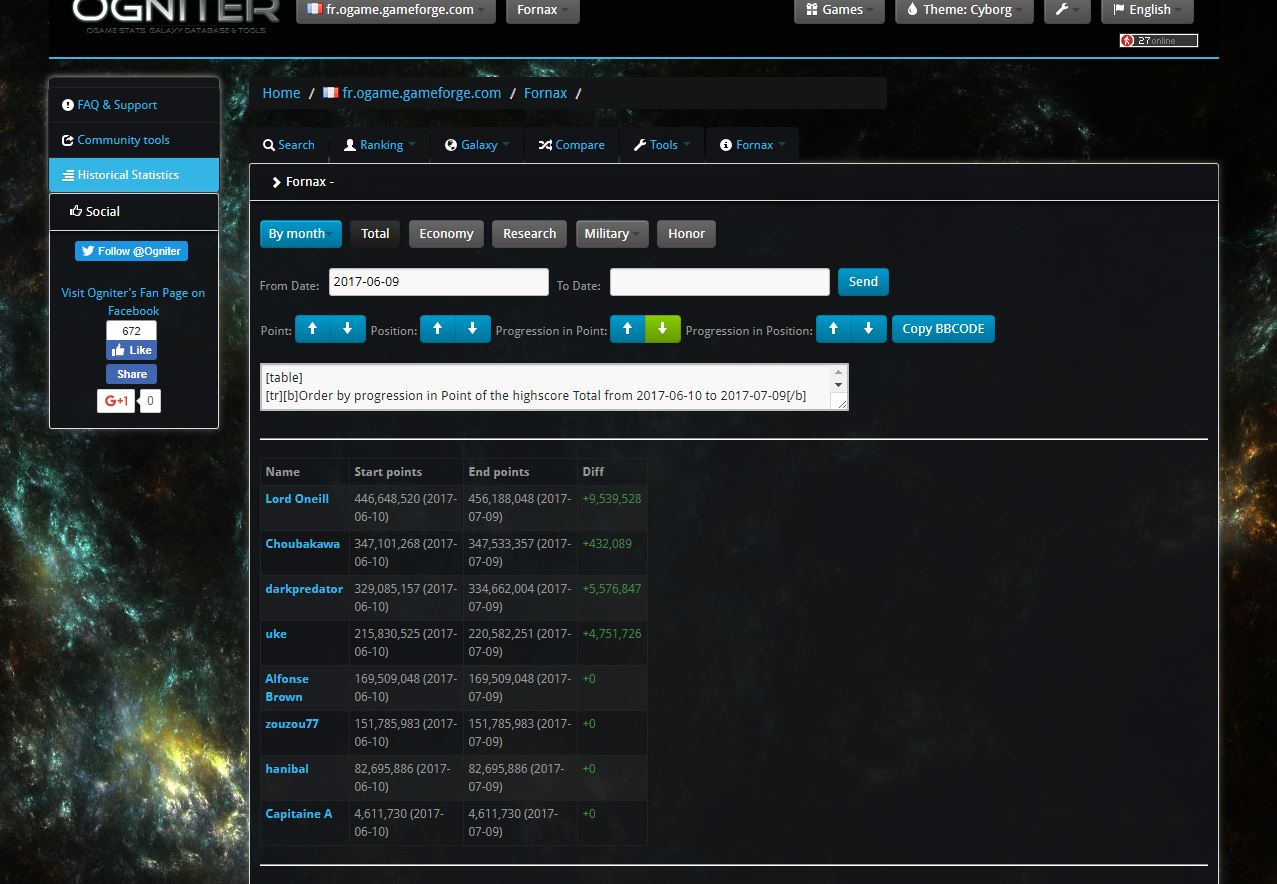
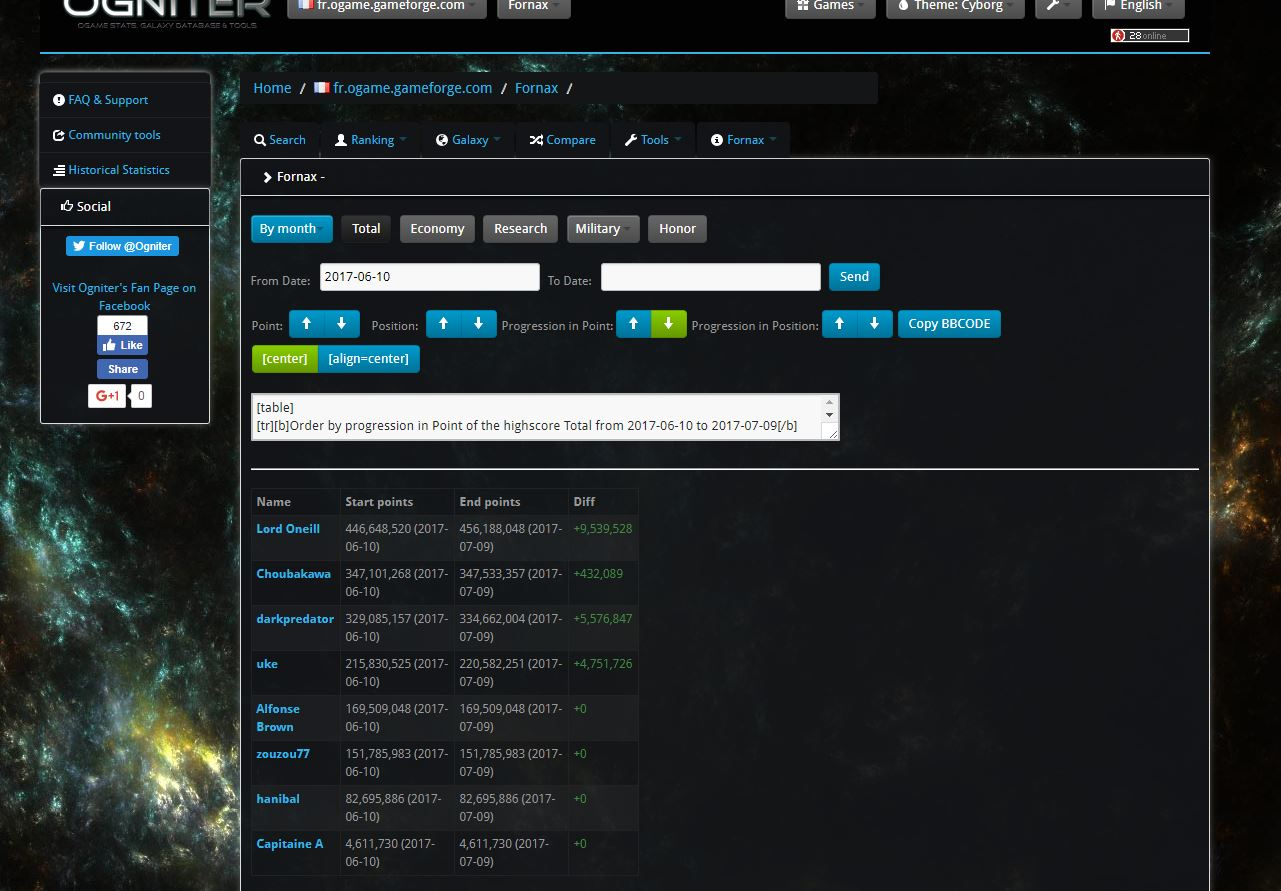
Give the possibility to change the balise center to align center

diff --git a/Export_BBCODE_Ogniter.user.js b/Export_BBCODE_Ogniter.user.js
@@ -16,6 +16,7 @@ var dateStart;
 var dateEnd;
 var type;
 var exportBBCODE = "";
+var alignCenter = "center";
 var language = {
     generatedFrom: "",
     withScript: "",
@@ -112,6 +113,20 @@ function initForm() {
                         </div>
                     </td>
                 </tr>
+                <tr>
+                    <td colspan="3" id="colEven">
+                        <div class="btn-group">
+                            <label id="labelCenterOption" class="btn btn-primary optionCenter" for="centerOption">
+                                ` + "[center]" + `
+                                <input type="radio" id="centerOption" name="center" class="radioItem" value="center">
+                            </label>
+                            <label id="labelAlignCenterOption" class="btn btn-primary optionCenter" for="alignCenterOption">
+                                ` + "[align=center]" + `
+                                <input type="radio" id="alignCenterOption" name="center" class="radioItem" value="align=center">
+                            </label>
+                        </div>
+                    </td>
+                </tr>
             </table>
         </div>
         `);
@@ -131,13 +146,13 @@ function initForm() {
  */
 function initPlayers() {
     for (var i = 0; i < table.length; i++) {
-        
+
         let tab = table[i],
             rows = table[i].getElementsByTagName('tr'),
             m,
             bigcells,
             cells;
-        
+
         for (m = 0; m < rows.length; m++) {
             let player = {
                 pseudo: "",
@@ -149,17 +164,17 @@ function initPlayers() {
                 diffPosition: "",
                 pourcentage: 0
             };
-            
+
             bigcells = rows[m].getElementsByTagName('th');
             if (!bigcells.length) {
                 continue;
             }
-            
+
             cells = rows[m].getElementsByTagName('td');
             if (!cells.length) {
                 continue;
             }
-            
+
             let pseudo = bigcells[0].getElementsByTagName('a');
             player.pseudo = pseudo[0].innerHTML;
             let dateStartTemp = cells[0].innerHTML;
@@ -167,7 +182,7 @@ function initPlayers() {
             dateStart = dateStartTemp.substr(dateStartTemp.indexOf("(") + 1).split(")").join("");
             dateEnd = dateEndTemp.substr(dateEndTemp.indexOf("(") + 1).split(")").join("");
             let testIteration = i.toString();
-            
+
             switch (testIteration) {
                 //first table = points
                 case "0":
@@ -191,7 +206,7 @@ function initPlayers() {
                     }
                     players.push(player);
                     break;
-                //second table = position
+                    //second table = position
                 case "1":
                     let positionBefore = cells[0].innerHTML;
                     let positionAfter = cells[1].innerHTML;
@@ -347,7 +362,7 @@ function generateBBcode(players) {
     players.forEach(function (e, index) {
         let colorPosition = e.diffPosition.startsWith("+") ? "[color=#00cc00]" : "[color=#FF0000]";
         let colorPoint = e.diffPoint.startsWith("+") ? "[color=#00cc00]" : "[color=#FF0000]";
-        index++;   
+        index++;
         BBCODE += "[tr]\n" +
             "[td]" + index + "[/td]" +
             "[td][color=#17B4FF]" + e.pseudo + "[/color][/td]" +
@@ -358,9 +373,9 @@ function generateBBcode(players) {
             "[td][size=10](" + e.pourcentage + ")[/size][/td]" +
             "[/tr]\n";
     });
-    
+
     BBCODE += "[/table]\n" + generateBBcodeSignature();
-    
+
     return BBCODE;
 }
 
@@ -375,11 +390,13 @@ function generateBBcodeSignature() {
     let scriptName = "Export BBCODE Ogniter";
     let devProfilURL = "https://twitter.com/Choubakawa";
     let devName = "Choubakawa";
+    let endCenter = alignCenter.startsWith("c") ? alignCenter : "align";
 
     let signature = "[size=10][table]\n" +
-        "[tr][td][center]" + language.generatedFrom + " " + "[url=" + ogniterURL + "]" + ogniterName + "[/url][/center][/td][/tr]\n" +
-        "[tr][td][center]" + language.withScript + " " + "[url=" + scriptURL + "]" + scriptName + "[/url]" + " " + language.createdBy + " " + "[url=" + devProfilURL + "]" + devName + "[/url][/center][/td][/tr]\n" +
+        "[tr][td][" + alignCenter + "]" + language.generatedFrom + " " + "[url=" + ogniterURL + "]" + ogniterName + "[/url][/" + endCenter + "][/td][/tr]\n" +
+        "[tr][td][" + alignCenter + "]" + language.withScript + " " + "[url=" + scriptURL + "]" + scriptName + "[/url]" + " " + language.createdBy + " " + "[url=" + devProfilURL + "]" + devName + "[/url][/" + endCenter + "][/td][/tr]\n" +
         "[/table][/size]";
+    console.log(signature);
 
     return signature;
 }
@@ -458,6 +475,7 @@ sortByDiffPointDESC(players);
 exportBBCODE = generateBBcode(players);
 initForm();
 $("#labelDiffPointDESC").addClass('btn-success');
+$("#labelCenterOption").addClass('btn-success');
 
 //==========================
 // LISTENERS ON BUTTONS
@@ -515,6 +533,20 @@ $("#optionDiffPositionDESC").click(function () {
     $(".persoArrow").removeClass('btn-success');
     $("#labelDiffPositionDESC").addClass('btn-success');
     sortByDiffPositionDESC(players);
+    updateBBcode();
+});
+
+$("#centerOption").click(function () {
+    $(".optionCenter").removeClass('btn-success');
+    $("#labelCenterOption").addClass('btn-success');
+    alignCenter = $("#centerOption").val();
+    updateBBcode();
+});
+
+$("#alignCenterOption").click(function () {
+    $(".optionCenter").removeClass('btn-success');
+    $("#labelAlignCenterOption").addClass('btn-success');
+    alignCenter = $("#alignCenterOption").val();
     updateBBcode();
 });
 
